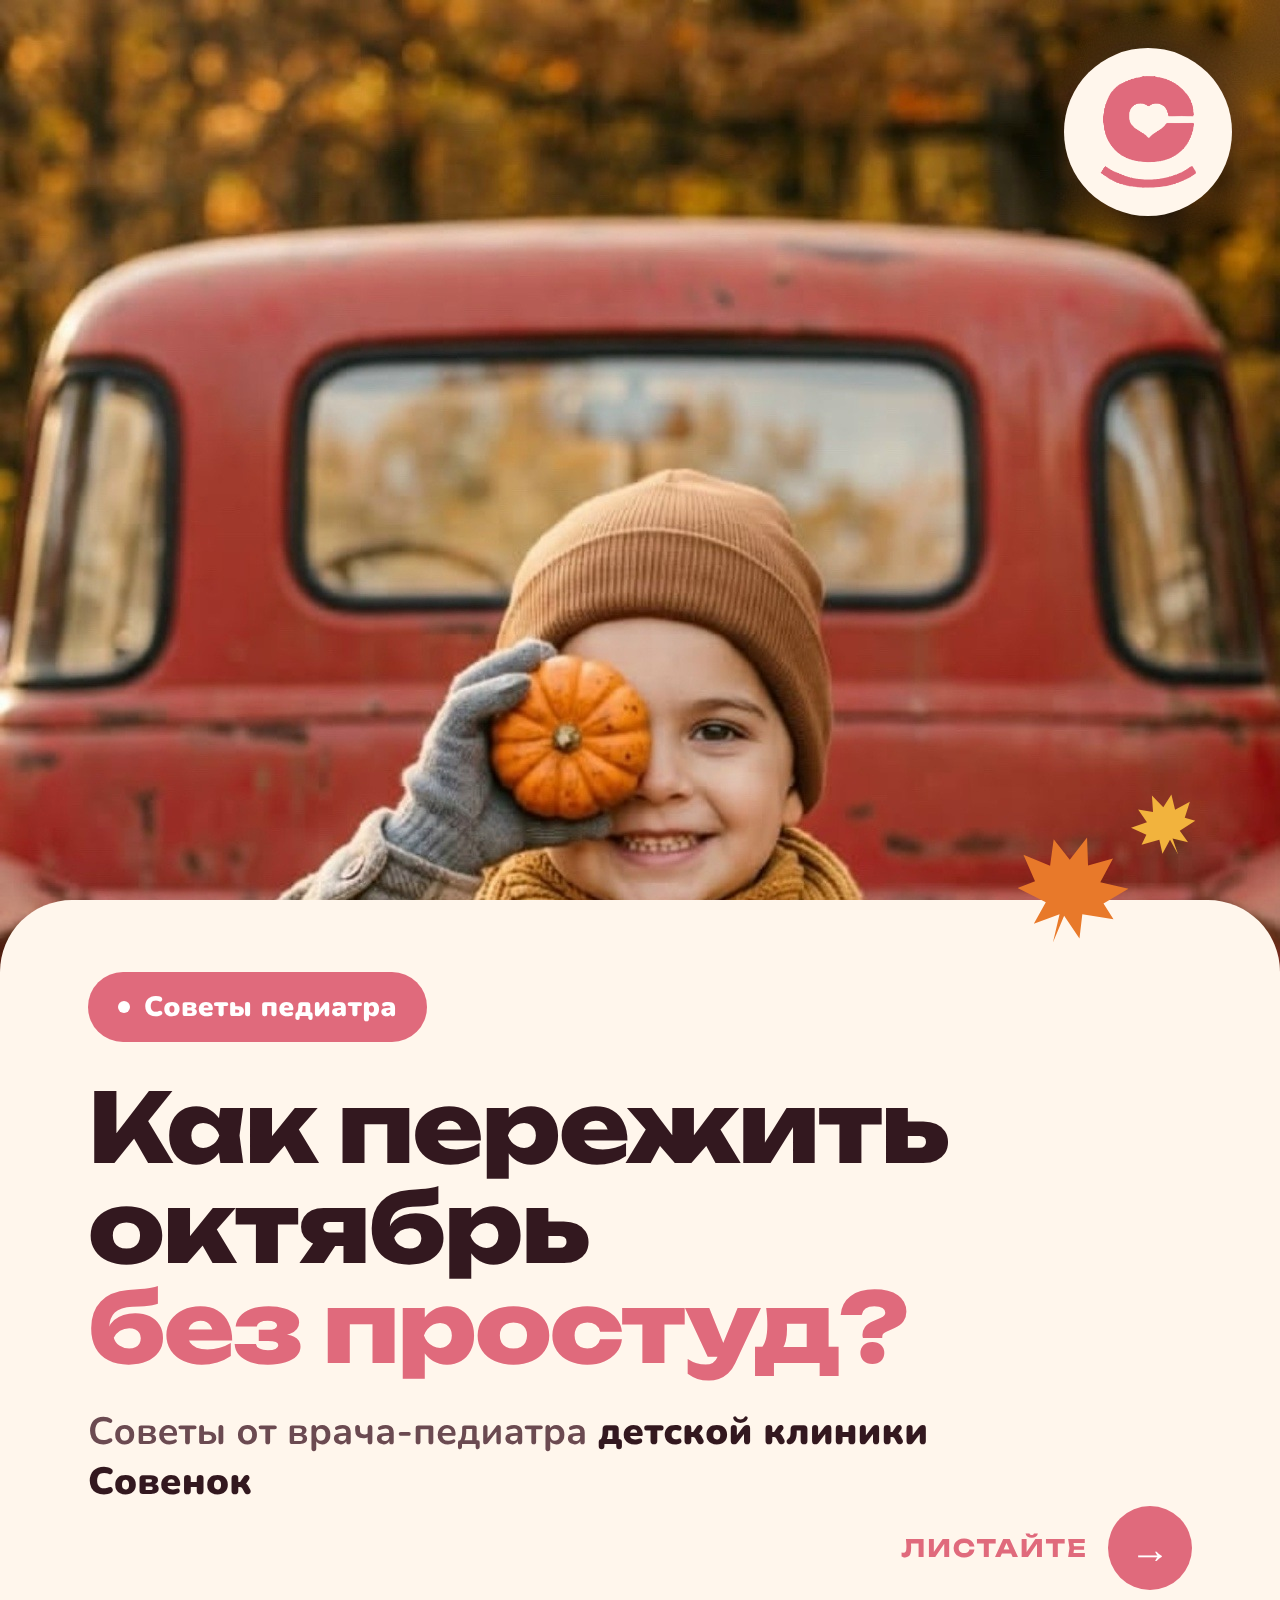
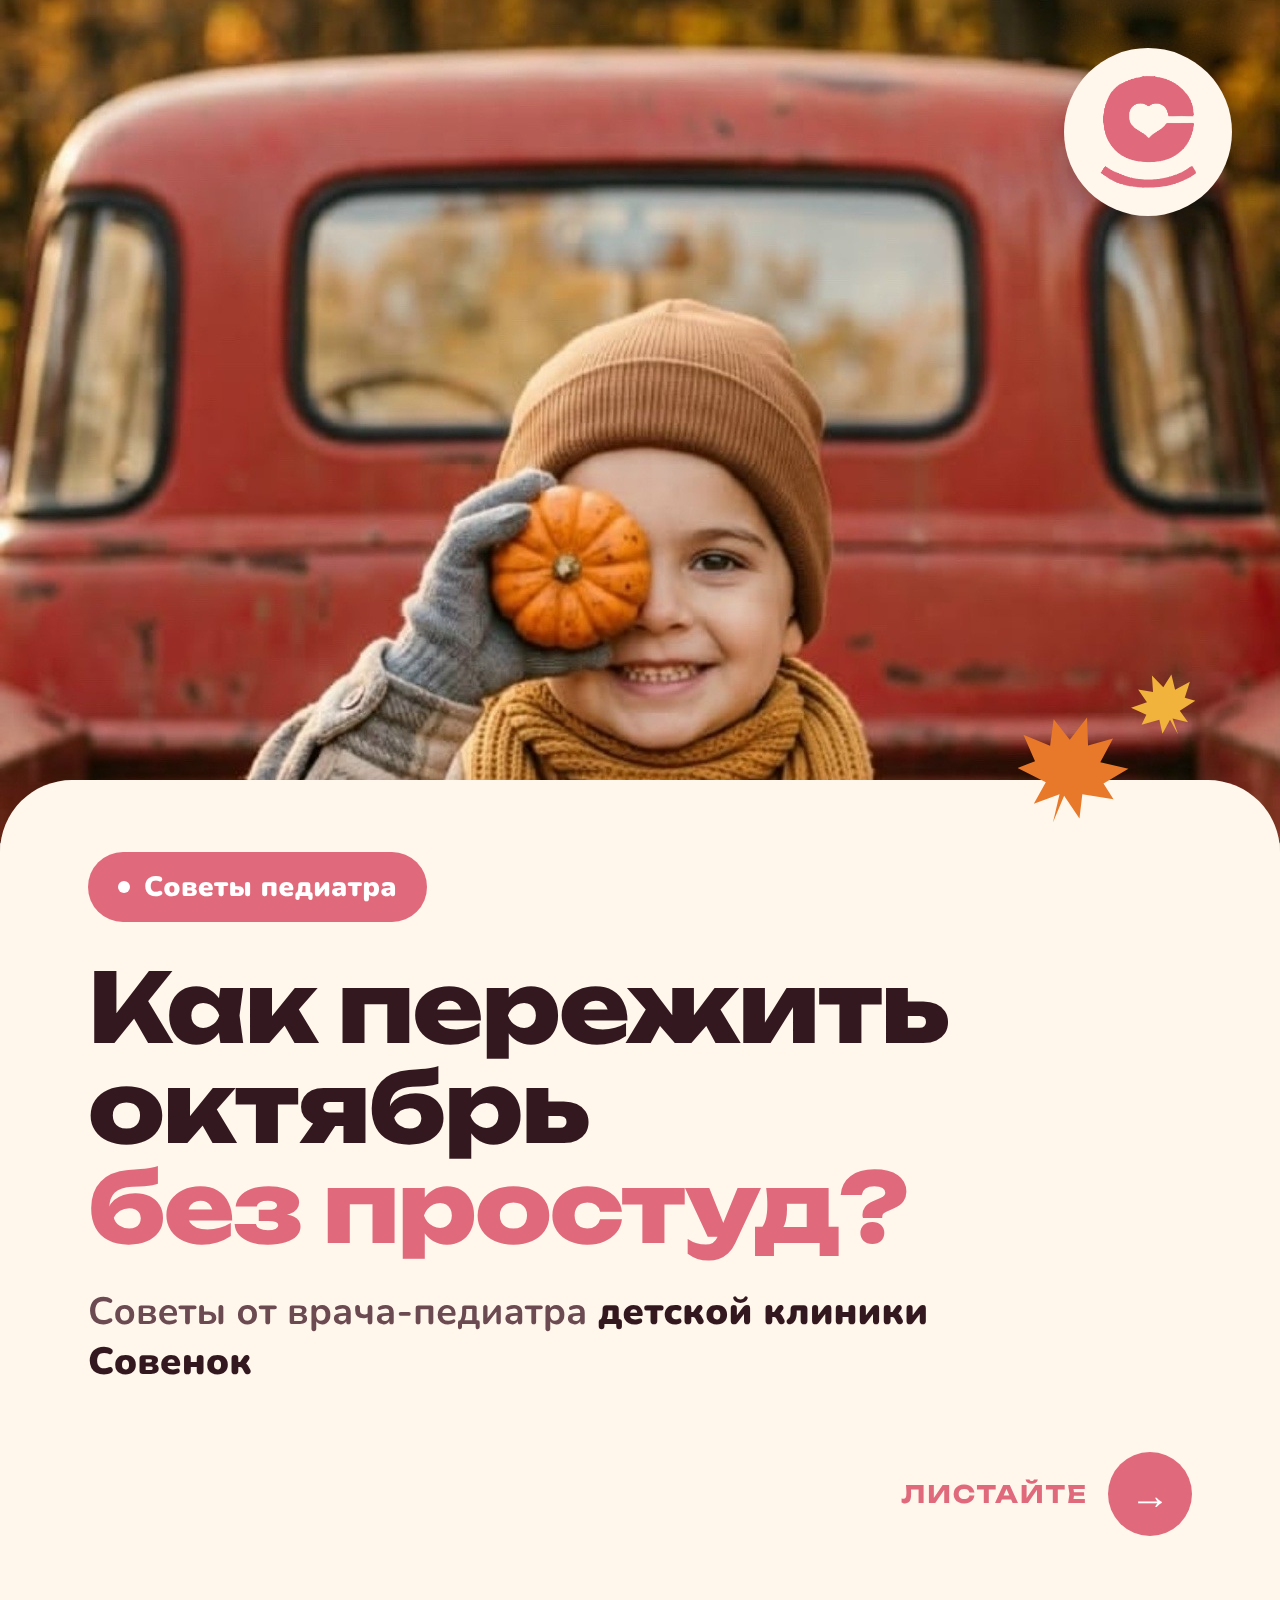
Raise the photo so the panel no longer covers the child's face
Claude-Session: https://claude.ai/code/session_01WeYFGwvmamv3RPg1XhxN8W

diff --git a/sovenok-october/src/slides.html b/sovenok-october/src/slides.html
@@ -52,7 +52,7 @@
   .leaf { position: absolute; z-index: 3; }
 
   /* ---------- 1. обложка ---------- */
-  #s1 .panel { top: 900px; padding-bottom: 64px; }
+  #s1 .panel { top: 780px; padding-bottom: 64px; }
   #s1 h1 { font-size: 96px; font-weight: 800; margin: 36px 0 30px; }
   #s1 .sub { font-size: 38px; line-height: 1.3; font-weight: 700; color: var(--ink-soft); max-width: 900px; }
   #s1 .sub b { color: var(--ink); font-weight: 900; }
@@ -84,8 +84,9 @@
   #s2 .foot { position: relative; margin-top: 40px; display: flex; justify-content: space-between; align-items: center; }
 
   /* ---------- 3. запись ---------- */
-  #s3 .photo { background-position: 0 -40px; }
-  #s3 .panel { top: 800px; }
+  #s1 .photo { background-position: 0 -170px; }
+  #s3 .photo { background-position: 0 -230px; }
+  #s3 .panel { top: 720px; }
   #s3 h2 { font-size: 84px; font-weight: 800; margin: 40px 0 28px; }
   #s3 .sub { font-size: 52px; line-height: 1.32; font-weight: 700; color: var(--ink-soft); }
   #s3 .sub b { color: var(--ink); font-weight: 900; }
@@ -109,8 +110,8 @@
 <section class="slide" id="s1">
   <div class="photo"></div>
   <div class="badge"><img src="logo.png" alt=""></div>
-  <svg class="leaf" style="left:1010px; top:830px; width:120px; height:120px; color:var(--pumpkin); transform:rotate(18deg)"><use href="#leaf"/></svg>
-  <svg class="leaf" style="left:1130px; top:790px; width:70px; height:70px; color:#F2B33D; transform:rotate(-24deg)"><use href="#leaf"/></svg>
+  <svg class="leaf" style="left:1010px; top:710px; width:120px; height:120px; color:var(--pumpkin); transform:rotate(18deg)"><use href="#leaf"/></svg>
+  <svg class="leaf" style="left:1130px; top:670px; width:70px; height:70px; color:#F2B33D; transform:rotate(-24deg)"><use href="#leaf"/></svg>
   <div class="panel">
     <div><span class="chip">Советы педиатра</span></div>
     <h1 class="display">Как пережить октябрь<br><span class="accent">без простуд?</span></h1>
@@ -149,8 +150,8 @@
 <section class="slide" id="s3">
   <div class="photo"></div>
   <div class="badge"><img src="logo.png" alt=""></div>
-  <svg class="leaf" style="left:150px; top:740px; width:110px; height:110px; color:var(--pumpkin); transform:rotate(-16deg)"><use href="#leaf"/></svg>
-  <svg class="leaf" style="left:70px; top:700px; width:64px; height:64px; color:#F2B33D; transform:rotate(30deg)"><use href="#leaf"/></svg>
+  <svg class="leaf" style="left:150px; top:660px; width:110px; height:110px; color:var(--pumpkin); transform:rotate(-16deg)"><use href="#leaf"/></svg>
+  <svg class="leaf" style="left:70px; top:620px; width:64px; height:64px; color:#F2B33D; transform:rotate(30deg)"><use href="#leaf"/></svg>
   <div class="panel">
     <div><span class="chip">Детская клиника Совенок</span></div>
     <h2 class="display">Больше полезной информации<br><span class="accent">для&nbsp;мам</span></h2>
